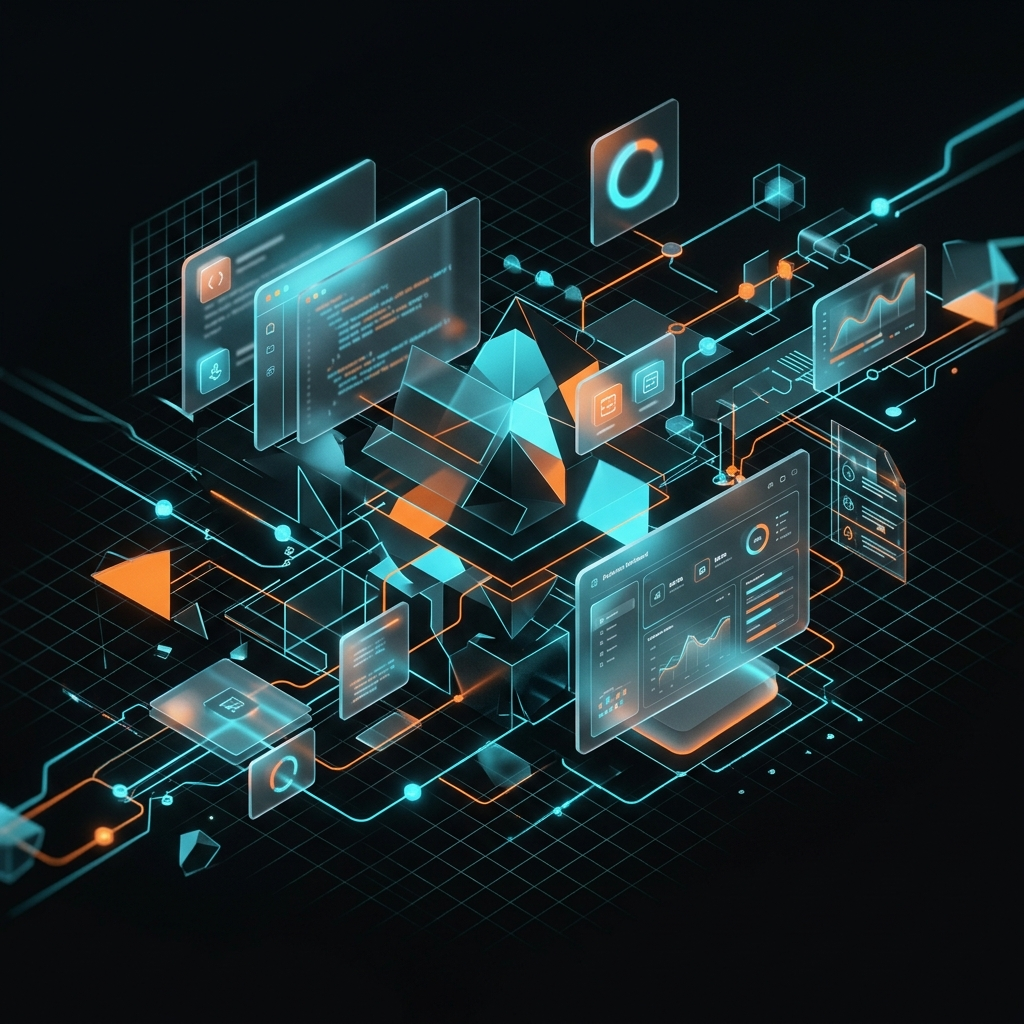
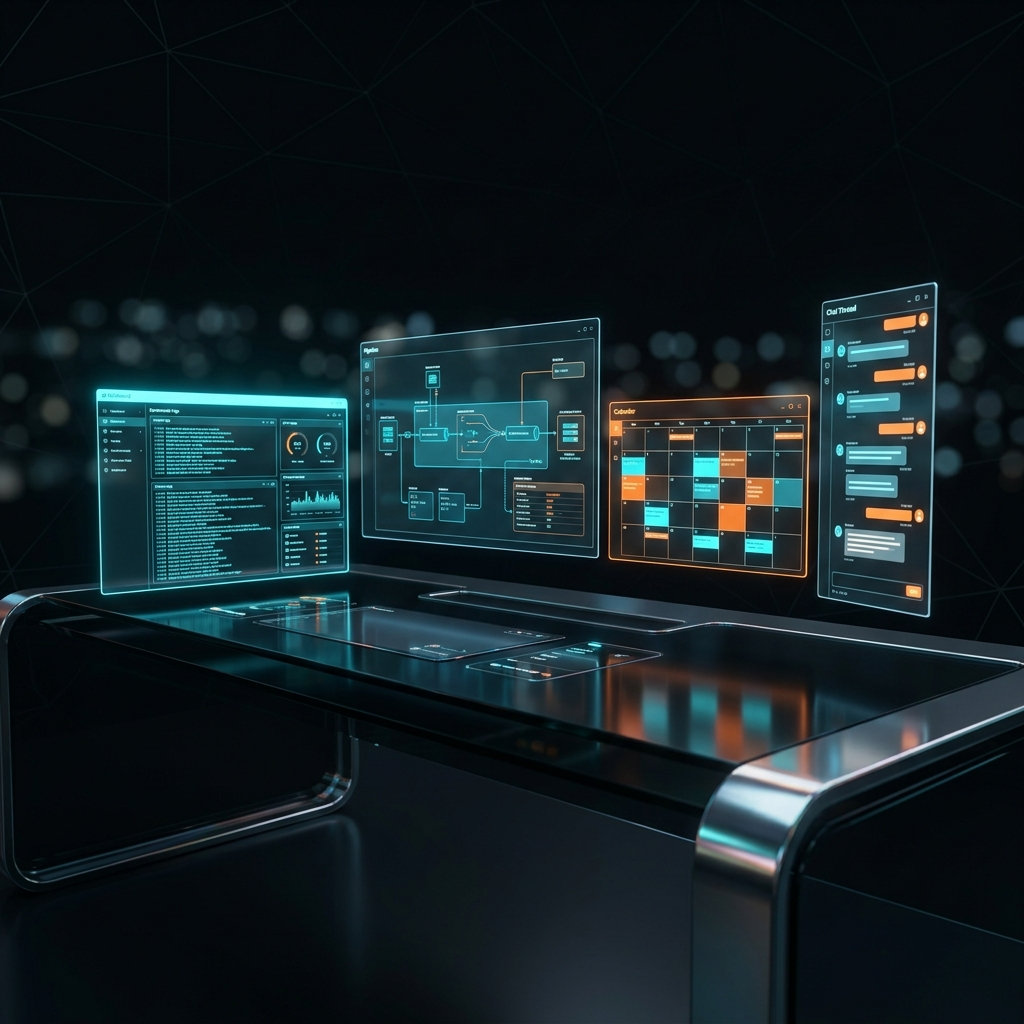
feat: better hero image, hero as listing card background with gradient overlay

diff --git a/src/components/sections/JobsPage.tsx b/src/components/sections/JobsPage.tsx
@@ -59,22 +59,25 @@ function Listing(){
         </motion.div>
         <div className="space-y-4">
           {jobs.map((j,i)=>(
-            <motion.a key={j.id} href={`#job/${j.id}`} className={`${card} block p-6 hover:border-neutral-700 transition-all group cursor-pointer`}
+            <motion.a key={j.id} href={`#job/${j.id}`}
+              className="block rounded-xl relative overflow-hidden border border-neutral-800 hover:border-neutral-700 transition-all group cursor-pointer shadow-[0_8px_32px_rgba(0,0,0,0.4)]"
               initial={{opacity:0,y:20}} animate={{opacity:1,y:0}} transition={{delay:0.1+i*0.1}}>
-              <div className="flex items-start justify-between gap-4">
+              <img src={j.heroImage} alt="" className="absolute inset-0 w-full h-full object-cover opacity-30 group-hover:opacity-40 transition-opacity duration-500"/>
+              <div className="absolute inset-0 bg-gradient-to-r from-neutral-950/95 via-neutral-950/80 to-neutral-950/60"/>
+              <div className="relative p-6 md:p-8 flex items-start justify-between gap-4">
                 <div className="flex-1 min-w-0">
                   <h3 className="text-xl font-bold text-white mb-2 group-hover:text-[#00bfff] transition-colors">{j.title}</h3>
-                  <p className="text-sm text-neutral-400 mb-4 leading-relaxed">{j.shortDesc}</p>
-                  <div className="flex flex-wrap items-center gap-3 text-xs text-neutral-500 mb-4">
+                  <p className="text-sm text-neutral-300 mb-4 leading-relaxed">{j.shortDesc}</p>
+                  <div className="flex flex-wrap items-center gap-3 text-xs text-neutral-400 mb-4">
                     <span className="flex items-center gap-1"><Clock className="w-3 h-3"/>{j.type}</span>
-                    <span className="text-neutral-800">&#183;</span>
+                    <span className="text-neutral-700">&#183;</span>
                     <span className="flex items-center gap-1"><MapPin className="w-3 h-3"/>{j.location}</span>
                   </div>
                   <div className="flex flex-wrap gap-2">
-                    {j.perks.map(p=><span key={p} className="text-[11px] font-medium px-2.5 py-1 rounded-full bg-neutral-900 border border-neutral-800 text-neutral-400">{p}</span>)}
+                    {j.perks.map(p=><span key={p} className="text-[11px] font-medium px-2.5 py-1 rounded-full bg-white/5 backdrop-blur-sm border border-white/10 text-neutral-300">{p}</span>)}
                   </div>
                 </div>
-                <ChevronRight className="w-5 h-5 text-neutral-700 group-hover:text-[#00bfff] group-hover:translate-x-1 transition-all flex-shrink-0 mt-1"/>
+                <ChevronRight className="w-5 h-5 text-neutral-600 group-hover:text-[#00bfff] group-hover:translate-x-1 transition-all flex-shrink-0 mt-1"/>
               </div>
             </motion.a>
           ))}